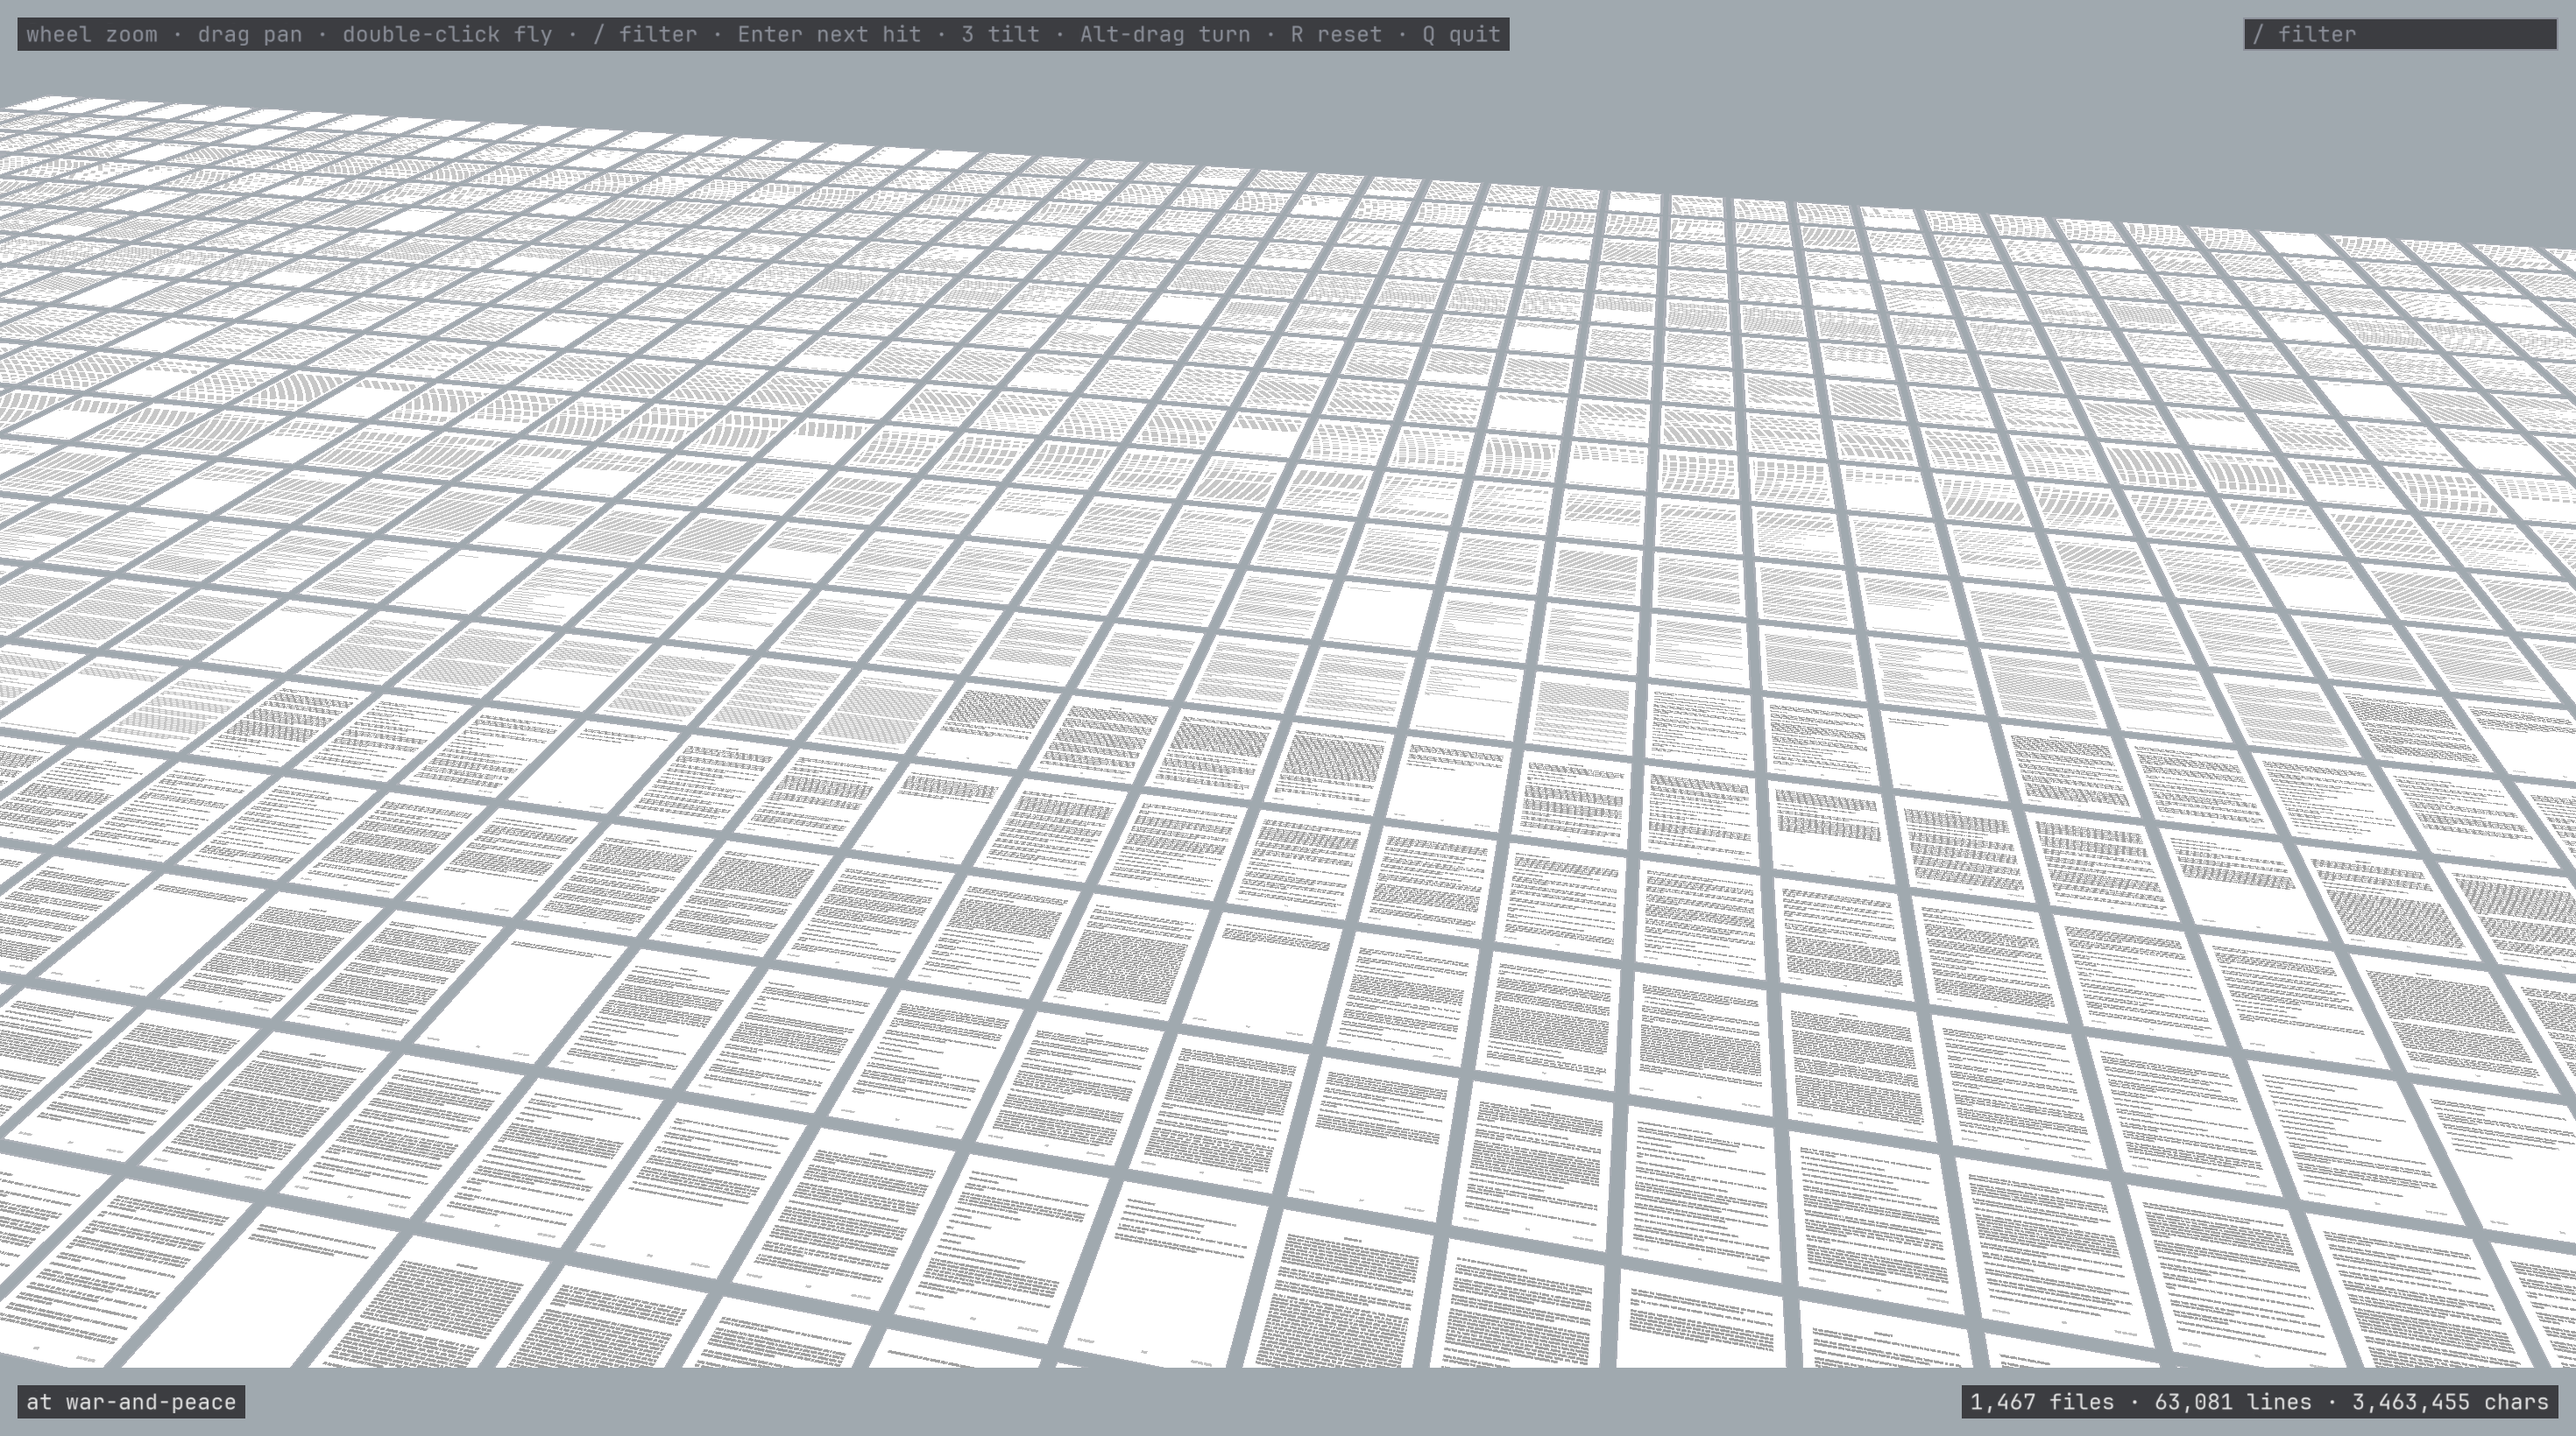
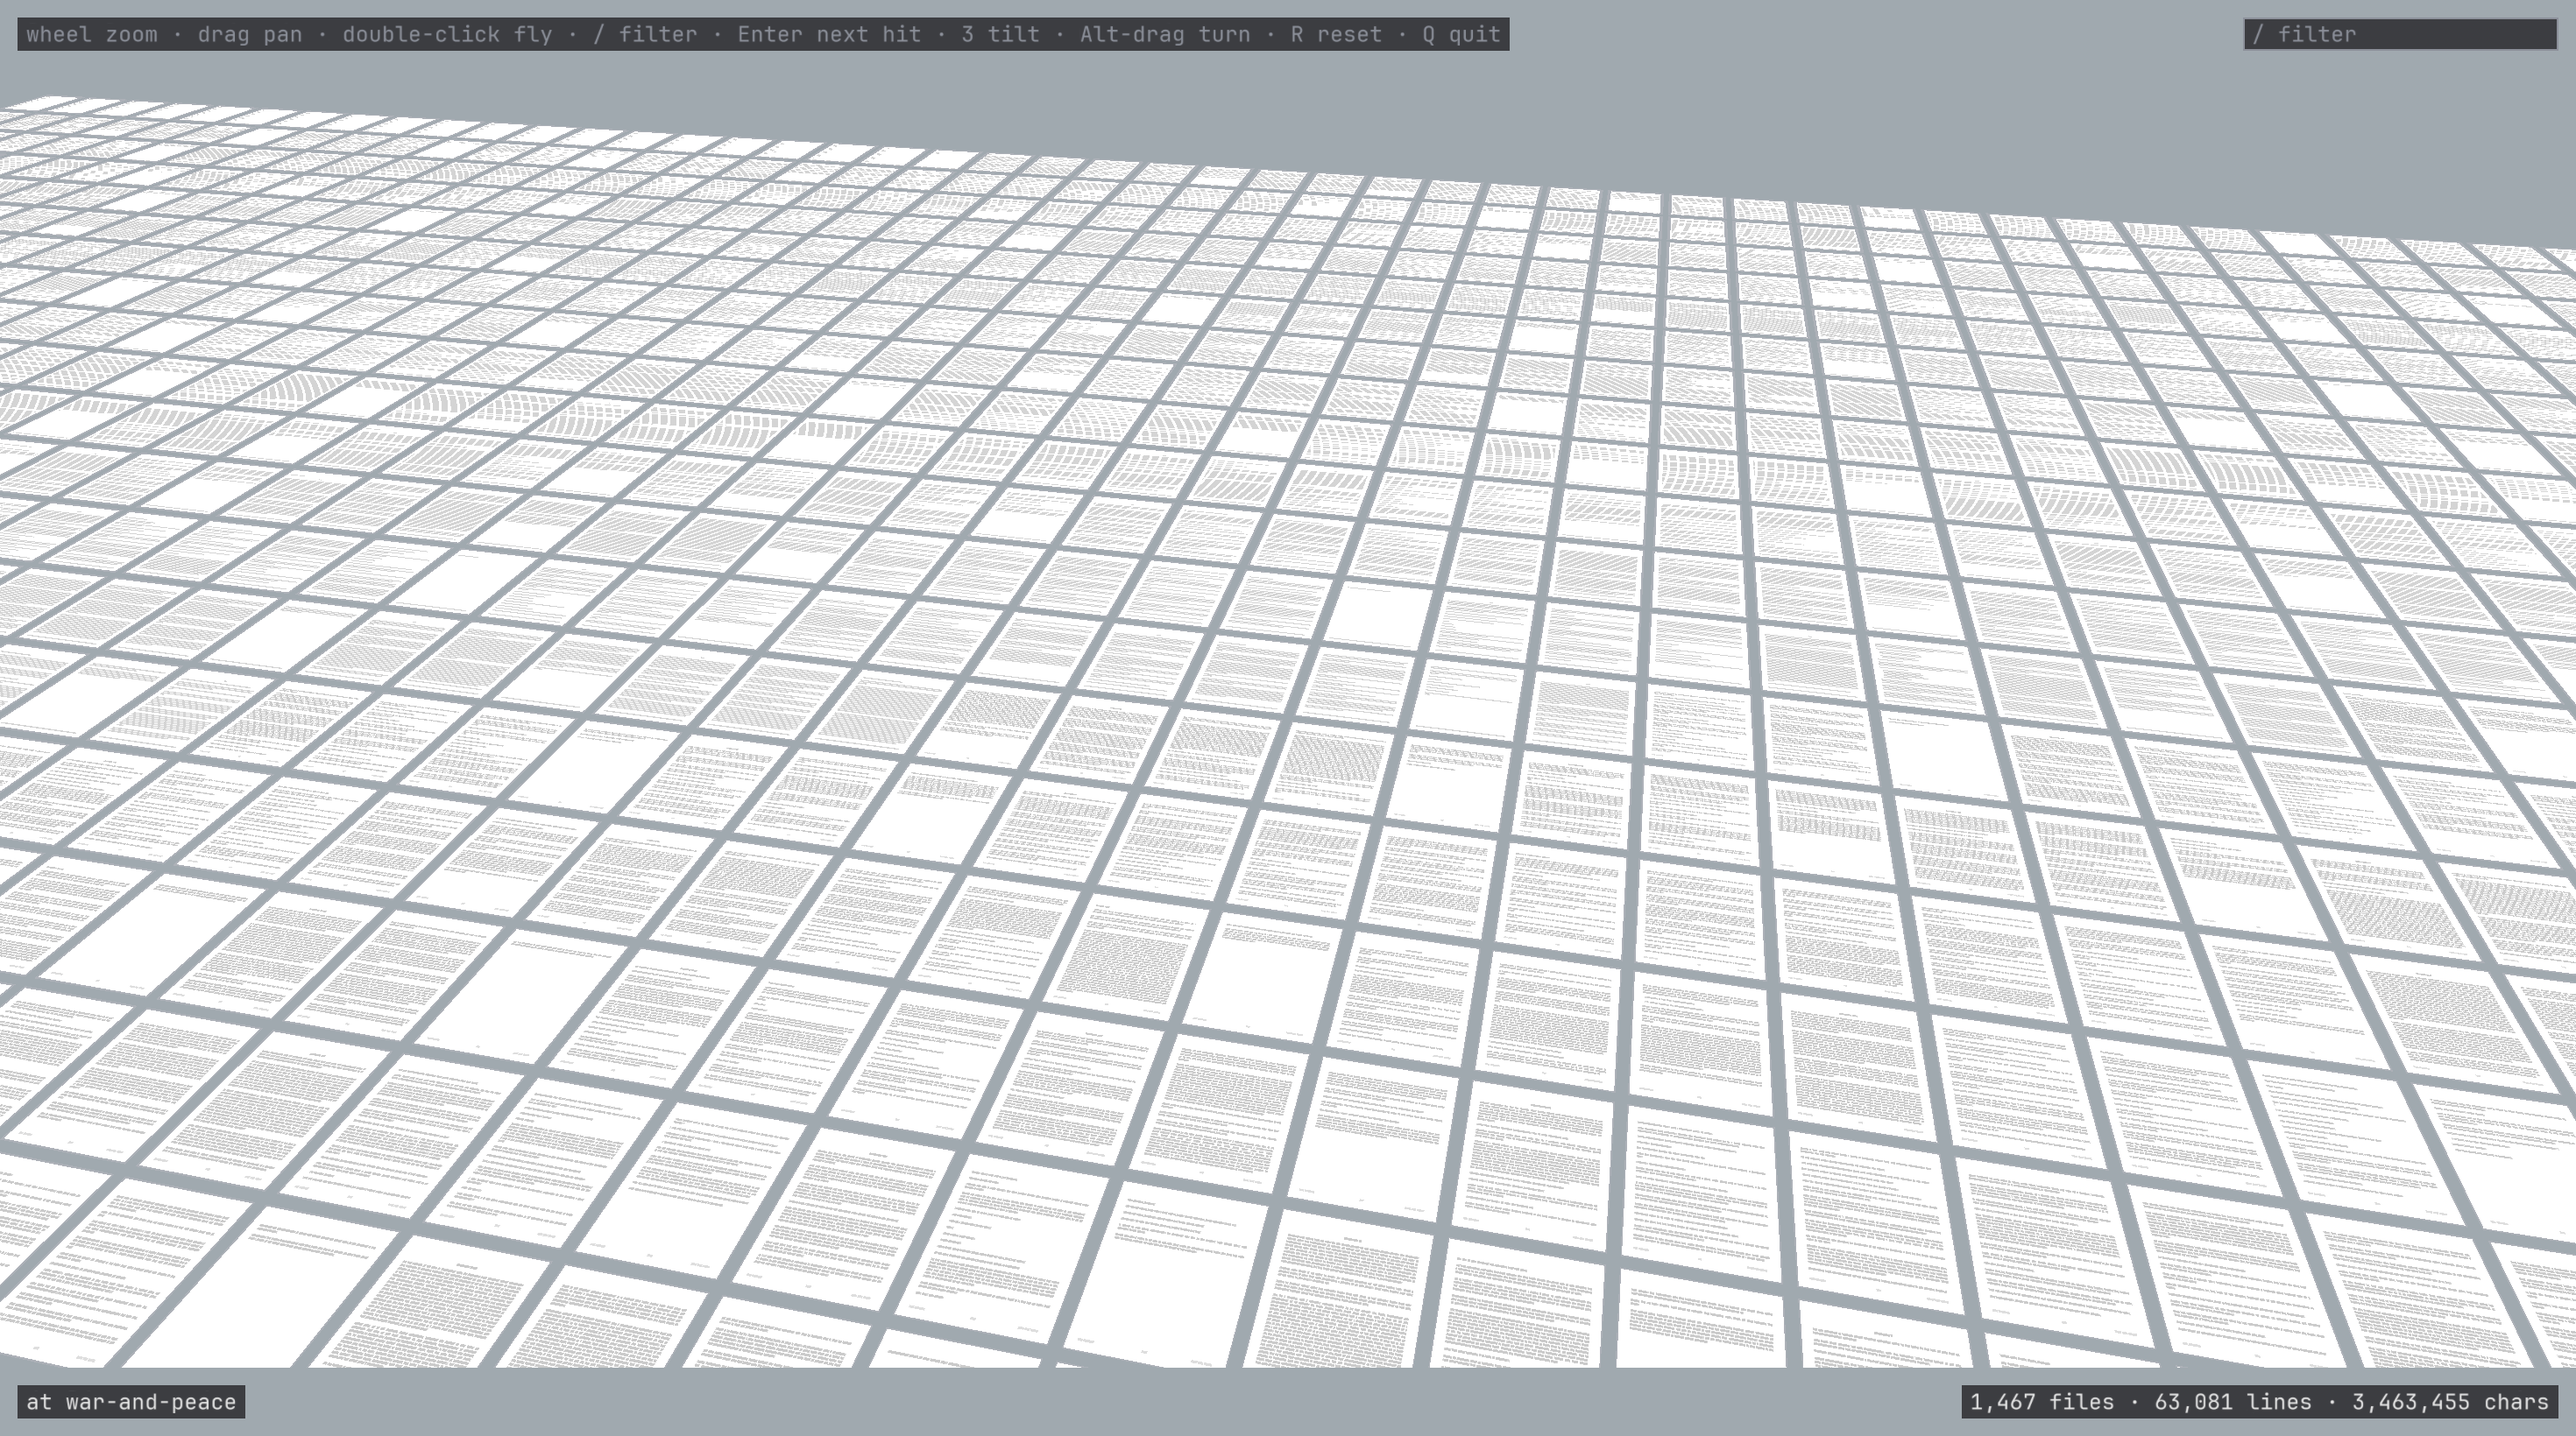
The book's ink is the text's own mean, so the levels of detail no longer step in darkness at a cut
Literata covers 15.6 percent of a glyph's advance box averaged over the book's letters; the bars and blocks stand 0.7 of a row tall and the bars span the spaces, so their alphas are 0.17 and 0.22, and a patch of pages measures the same mean grey either side of the 6 pixel cut.

diff --git a/book_index.py b/book_index.py
@@ -50,9 +50,11 @@ SCHEME = {"ground": "a0a9af", "page": "ffffff", "bar": "000000", "band": "a0a9af
           # the line box stretched to a book's leading, and set type: lines
           # flush to the margin by widening their word gaps
           "leading": 1.3, "justify": True,
-          # ink: the alpha of the bars far and near, and of the word blocks: a
-          # page seen from far reads as the pale grey of averaged text
-          "ink": [0.22, 0.22, 0.4],
+          # ink: the alpha of the bars far and near, and of the word blocks,
+          # set to the text's own mean ink so nothing steps at a cut: Literata
+          # covers 15.6 percent of a glyph's box over the book's letters, bars
+          # and blocks stand 0.7 tall, and bars span the spaces (23 percent)
+          "ink": [0.17, 0.17, 0.22],
           "kinds": ["000000", "141414", "141414", "141414", "141414", "6a6a6a", "141414", "4a4a4a", "141414", "141414"],
           "items": ["7aa2f7", "e0c080", "d7a0a8", "5fb7b7", "8c909a"]}
 

diff --git a/README.md b/README.md
@@ -209,7 +209,7 @@ The filter `Natasha`: 1,213 mentions on 310 pages, every page with one outlined 
 How each stage is built is in [docs/DESIGN.md](docs/DESIGN.md). The short version:
 
 - **Index.** `atlas_index.py` walks the tree (honouring `.gitignore`, skipping binaries and submodules), expands tabs, maps every character to one column, and runs a small regex tokenizer per language family (Rust, C-like, Python, shell, plain) that gives every character one of ten kinds. Items (functions, structs, enums, impls, modules) come from regexes with brace or indentation matching. The output is a handful of numpy arrays: characters, kinds, line offsets, file ranges, item ranges, and the tint. `book_index.py` writes the same index from a Project Gutenberg text: a heading line such as `BOOK ONE: 1805` opens a part, `CHAPTER I` a chapter, and every 40 lines of a chapter are a page, the file, named `Book One: 1805/Chapter I/p. 17`; the prose is reflowed to the page's line width in the book's face and normalised to ASCII (curly quotes straight, the em dash two hyphens, accents stripped, so Natásha is Natasha until the glyph tiers cover more than ASCII), and words are the identifier kind, with no string literals and no items.
-- **The scheme.** An index may carry a `scheme`: the ground, the page (the file fill), the bar colour, the ten kind colours, the five item colours, and a face under `fonts/`; the viewer takes what is given over the code atlas's defaults and hands the colours to the shaders as uniforms. The book's is Dobbie's demo: pages as white quads on a `#a0a9af` ground, text black, the bands in the ground's own colour so the parts draw nothing, Literata for the face, and an ink of 22 percent for the bars and 40 for the word blocks, so a page seen from afar reads as the pale grey of averaged text, as his do, where code keeps its bright bars. The scheme's `ink` is the bars' alpha far and near and the word blocks'. His own face was Centaur, read from the embedded fonts of the demo's source PDF; Centaur is Monotype's, and Literata is the book serif made for reading on screens under the OFL.
+- **The scheme.** An index may carry a `scheme`: the ground, the page (the file fill), the bar colour, the ten kind colours, the five item colours, and a face under `fonts/`; the viewer takes what is given over the code atlas's defaults and hands the colours to the shaders as uniforms. The book's is Dobbie's demo: pages as white quads on a `#a0a9af` ground, text black, the bands in the ground's own colour so the parts draw nothing, Literata for the face, and an ink of 17 percent for the bars and 22 for the word blocks, the text's own mean ink measured from the atlas over the book's letters, so nothing steps at a cut and a page seen from afar reads as the pale grey of averaged text, as his do, where code keeps its bright bars. The scheme's `ink` is the bars' alpha far and near and the word blocks'. His own face was Centaur, read from the embedded fonts of the demo's source PDF; Centaur is Monotype's, and Literata is the book serif made for reading on screens under the OFL.
 - **Proportional text.** When the face's advances differ, the layout measures every line in line heights by summing its glyphs' advances, sizes columns and wraps by width, and writes each glyph's x within its row (`char_x`) and each row's width; the viewer then draws the tokens and text LODs with one instanced quad per glyph (`shaders/glyph.glsl`) placed by that x and sized by its advance, from the same raster atlas and vector tier, and finds the glyph under the cursor or a hit by the same offsets. A scheme may ask for set type: a line with more of its paragraph after it is stretched to the margin by widening its word gaps evenly, in those same x's, and for a leading, the line box stretched over the ink extents so a book has air between its lines (1.3 for the book). Bars, and every LOD of a monospace corpus, keep the per-line draw. Code stays on the monospace grid.
 - **The tint.** In a git checkout the index step runs one `git log --numstat` over the indexed directories (20 seconds for emscripten's 30,274 commits, under a second for big-text's), sums each file's lines added and removed, a rename counting as a removal and an addition, and writes the sums on a log scale to 0..1 as the tint, labelled `churn`. The viewer knows only that a leaf has a number in 0..1 and a label: it maps the number to ember over the file fill and shows the label in the status line. A book writes no tint.
 - **Layout.** `atlas_layout.py` is a squarified treemap over the directory tree with padding per level, sized to about two lines of the directory's own text, which the viewer draws as the directory band: a few pixels wide at most, so the bands stay thin at every zoom, a hairline at the fit and a gutter of two lines once the text is legible. Each file's area is its weight, tokens for code. Each file is wrapped into as many equal columns as keep a 90th-percentile line width readable; lines longer than a column wrap inside it, continuation rows hanging in by two characters. `tests/check_layout.py` checks the invariants. A book skips the treemap: one grid of pages in reading order, every page one cell of the size that lets one column hold the book's line width inside the page's margins, in a gutter, so 58 pages across for War and Peace, and every page pitched as a full page so a short last page keeps its chapter's text size; `--book-layout parts` gives every part its own band of page rows instead.

diff --git a/docs/DESIGN.md b/docs/DESIGN.md
@@ -113,7 +113,7 @@ Per frame, in numpy over files: pixels per line `ppl = file_pitch * zoom`, fores
 | 2 tokens | 3 to 6 | one block per character in its kind colour; item outlines |
 | 3 text | 6 and up | glyphs in the kind colour, from the raster atlas below 12 px per line and from the vector tier above; item outlines |
 
-A proportional face draws the tokens and text LODs with `glyph.glsl` instead, one instanced quad per character of each run of visible files, placed at its row's position plus its x and sized by its advance from a 96-entry uniform, the same LODs' fragment code applied per glyph, the raster cell sampled over the glyph's own advance; `line.glsl` then keeps LODs 0 and 1. The kind bands are the item rectangles of LOD 0 and 1 files filled in the item kind colour at 18 percent (fills far, outlines near); at LODs 2 and 3 the same rectangles are 1.5 pixel outlines. Every LOD draws the file background `#111114` under the lines, so nothing flips colour at a cut; the hue lives only in the directory bands. The border is one grey pixel, two yellow for a hit file, three for the current hit's file, computed in the fragment shader from the world distance to the edge and `fwidth` so it holds in perspective, and drawn twice: with the fill before the lines and as a ring after them, so column-0 text never breaks a hit outline. The hovered file gets the light border and no fill, so its text stays readable. The tint, when on (`C`, `--tint`), mixes the fill towards ember by the file's value; bars and glyphs are untouched, and the status line shows the label. The bars' alpha ramps with pixels per line between the scheme's far and near ink, and the word blocks take its block ink: code's are 0.55, 0.8 and 1, the book's 0.22, 0.22 and 0.4, so a page from afar averages to the pale grey of its text. The ground, page, bar, kind and item colours are the scheme's, uniforms set once at start; the UI boxes, the hues and the yellow of the hits are the viewer's own. Dimmed files (no hits while a filter is active) darken their fill by half and their bars and glyphs to 45 percent.
+A proportional face draws the tokens and text LODs with `glyph.glsl` instead, one instanced quad per character of each run of visible files, placed at its row's position plus its x and sized by its advance from a 96-entry uniform, the same LODs' fragment code applied per glyph, the raster cell sampled over the glyph's own advance; `line.glsl` then keeps LODs 0 and 1. The kind bands are the item rectangles of LOD 0 and 1 files filled in the item kind colour at 18 percent (fills far, outlines near); at LODs 2 and 3 the same rectangles are 1.5 pixel outlines. Every LOD draws the file background `#111114` under the lines, so nothing flips colour at a cut; the hue lives only in the directory bands. The border is one grey pixel, two yellow for a hit file, three for the current hit's file, computed in the fragment shader from the world distance to the edge and `fwidth` so it holds in perspective, and drawn twice: with the fill before the lines and as a ring after them, so column-0 text never breaks a hit outline. The hovered file gets the light border and no fill, so its text stays readable. The tint, when on (`C`, `--tint`), mixes the fill towards ember by the file's value; bars and glyphs are untouched, and the status line shows the label. The bars' alpha ramps with pixels per line between the scheme's far and near ink, and the word blocks take its block ink: code's are 0.55, 0.8 and 1, the book's 0.17, 0.17 and 0.22: Literata covers 15.6 percent of a glyph's advance box averaged over the book's letters, bars and blocks stand 0.7 of a row tall and bars span the spaces, so each level has the mean ink of the text it replaces and nothing steps at a cut. The ground, page, bar, kind and item colours are the scheme's, uniforms set once at start; the UI boxes, the hues and the yellow of the hits are the viewer's own. Dimmed files (no hits while a filter is active) darken their fill by half and their bars and glyphs to 45 percent.
 
 ### Glyphs
 
